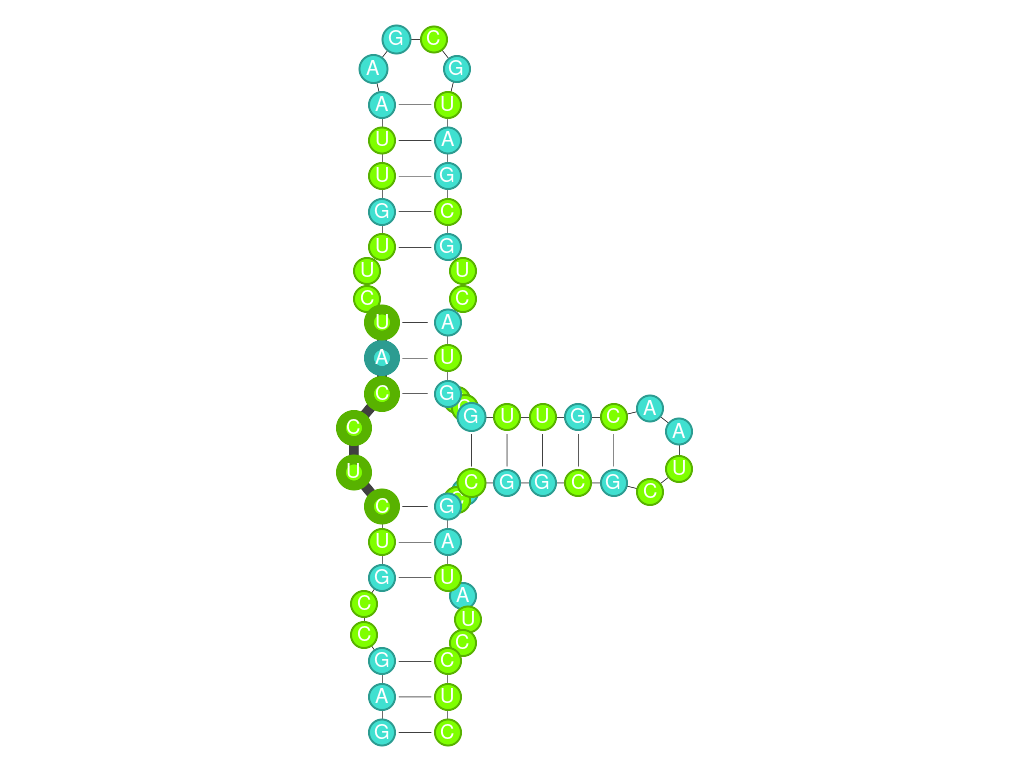
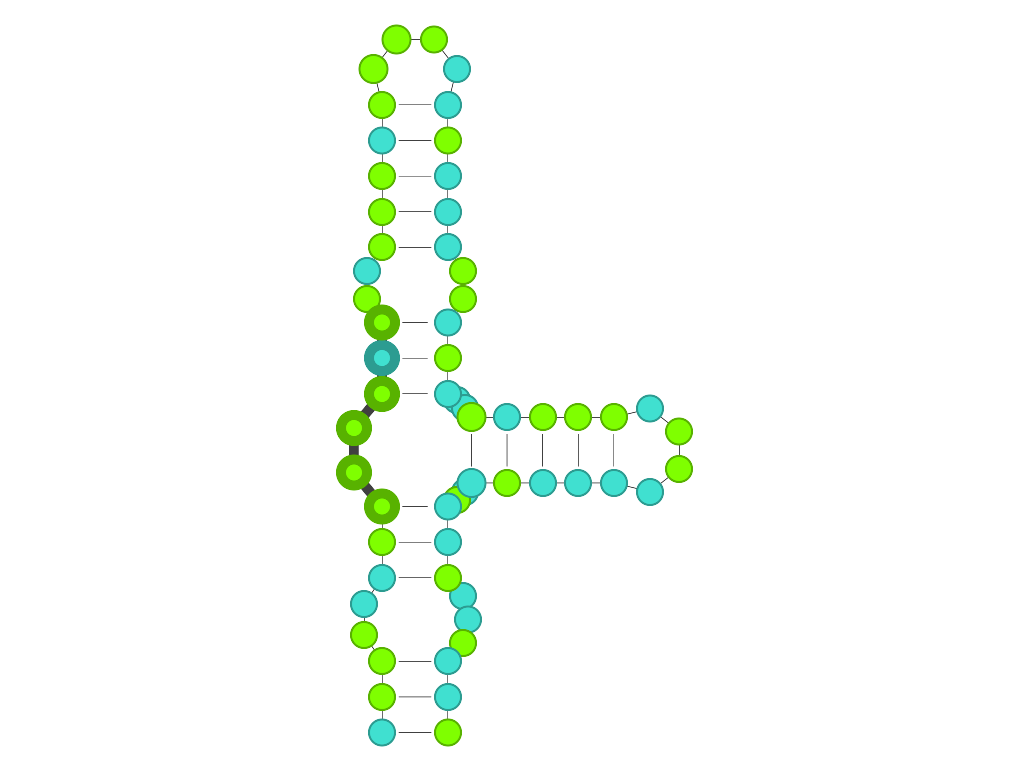
dsl example output fixed

diff --git a/README.md b/README.md
@@ -1046,15 +1046,15 @@ rnartist {
       "(((..(((..(((..(((((....)))))..)))..(((((....)))))..)))...)))"
   }
   theme {
-    details_lvl = 5
+    details_lvl = 3
 
     color {
-      type = "Y y"
+      type = "Y"
       value = "chartreuse"
     }
 
     color {
-      type = "R r"
+      type = "R"
       value = "turquoise"
     }
 
